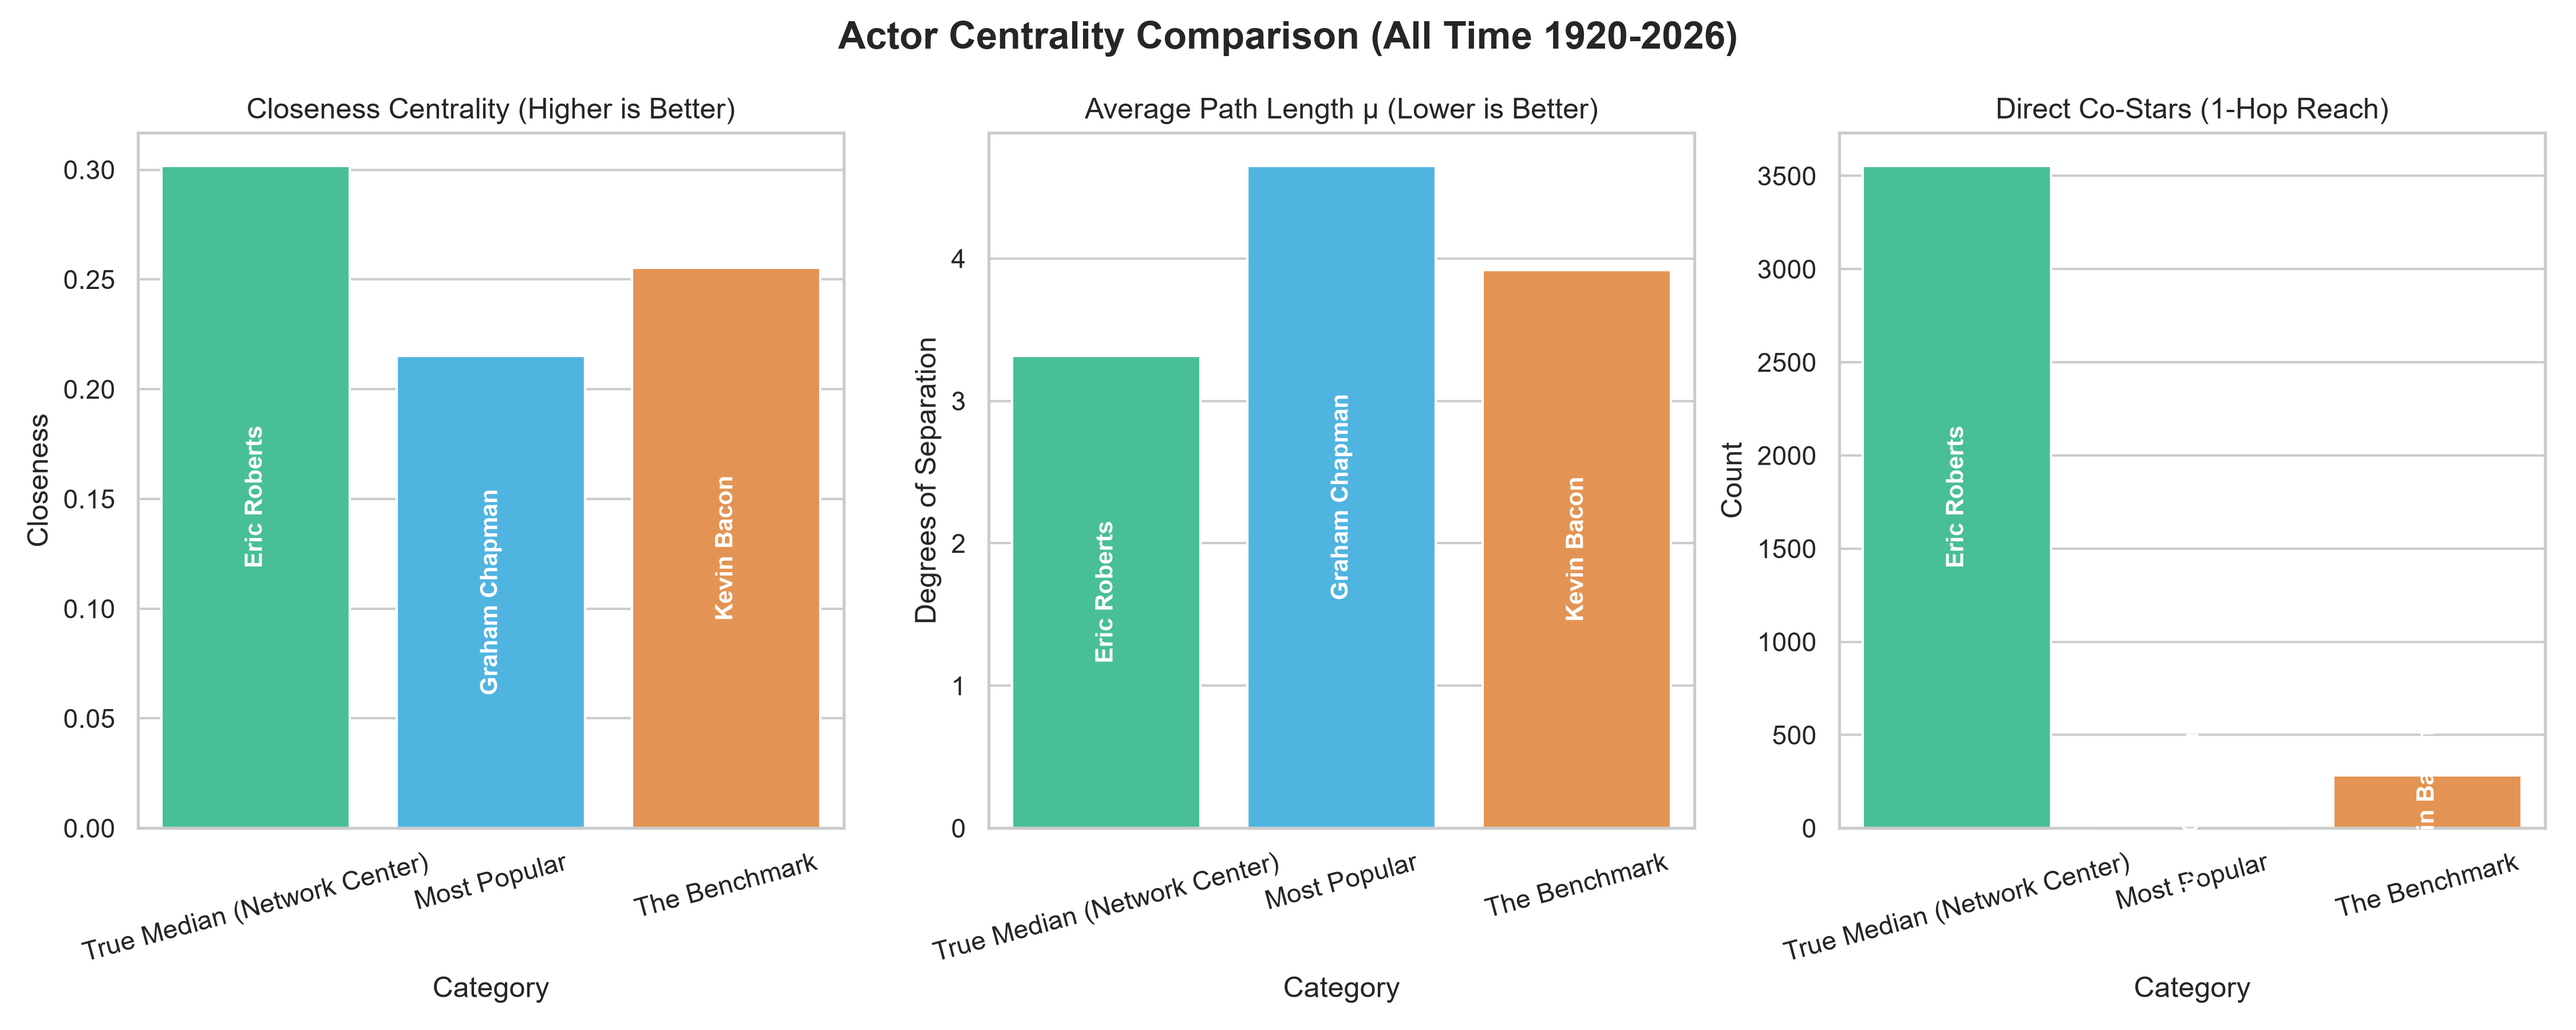
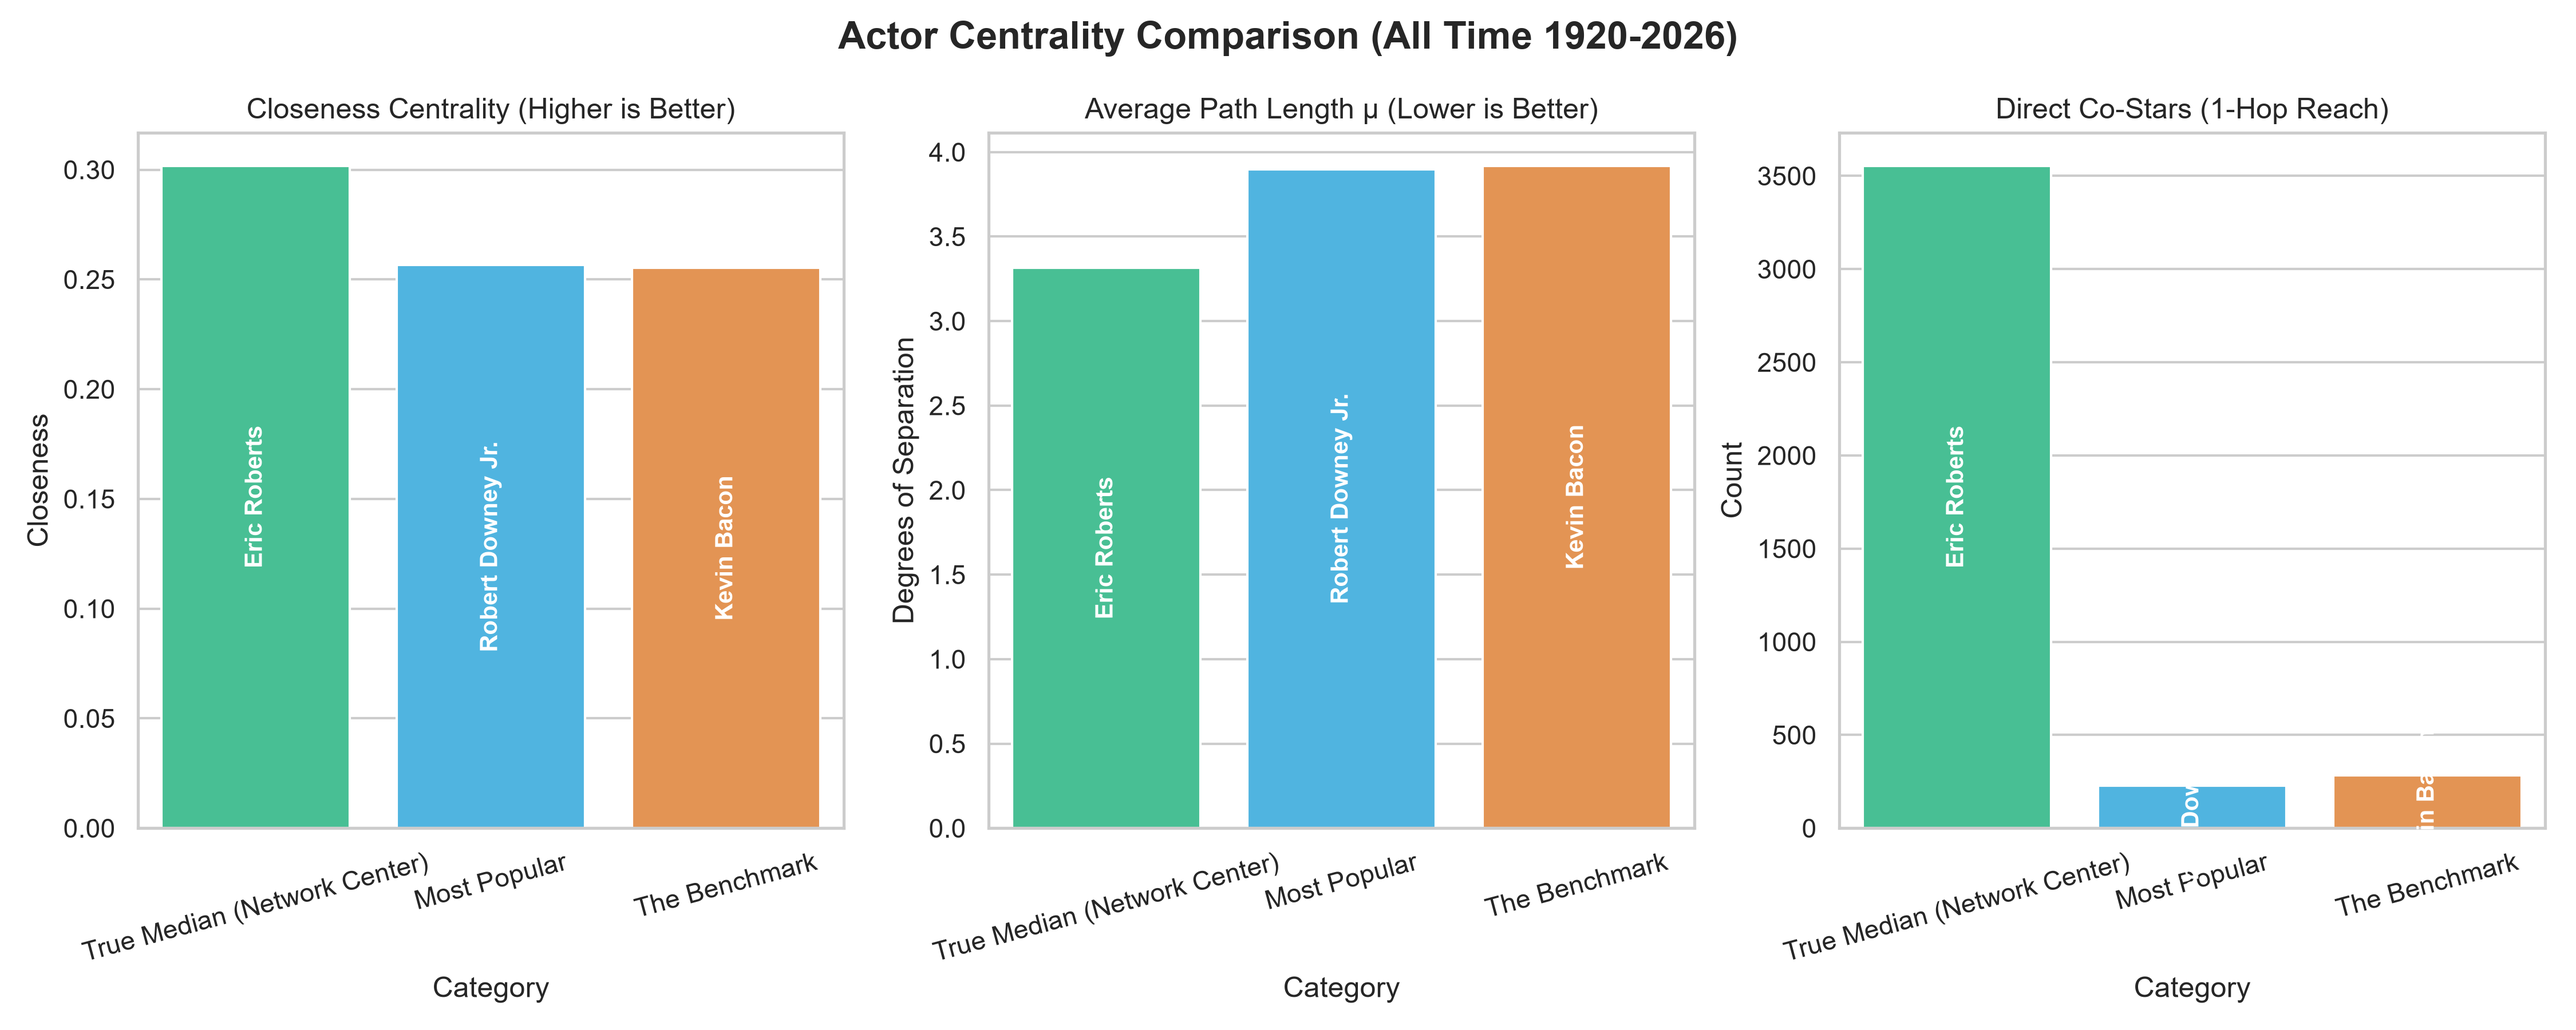
chore: Update PDF visualizations with full 1900-2026 dataset

diff --git a/final_submission/generate_pdf_visualizations.py b/final_submission/generate_pdf_visualizations.py
@@ -19,8 +19,8 @@ def generate_entropy_graph():
     print("Generating Entropy Graph...")
     clusterer = CommunityClusterer()
     
-    windows = [(2000, 2004), (2005, 2009), (2010, 2014), (2015, 2019), (2020, 2024)]
-    window_labels = [f"{w[0]}-{w[1]}" for w in windows]
+    windows = [(1950, 1959), (1960, 1969), (1970, 1979), (1980, 1989), (1990, 1999), (2000, 2009), (2010, 2019)]
+    window_labels = [f"{w[0]}s" for w in windows]
     avg_geo_entropies = []
     avg_genre_entropies = []
     
@@ -176,7 +176,7 @@ def generate_median_comparison():
     print("Saved median_comparison.png")
 
 if __name__ == "__main__":
-    # generate_entropy_graph() # Already saved
+    generate_entropy_graph()
     generate_popular_actors_timeline()
     generate_median_comparison()
     print("All visualizations generated successfully.")
